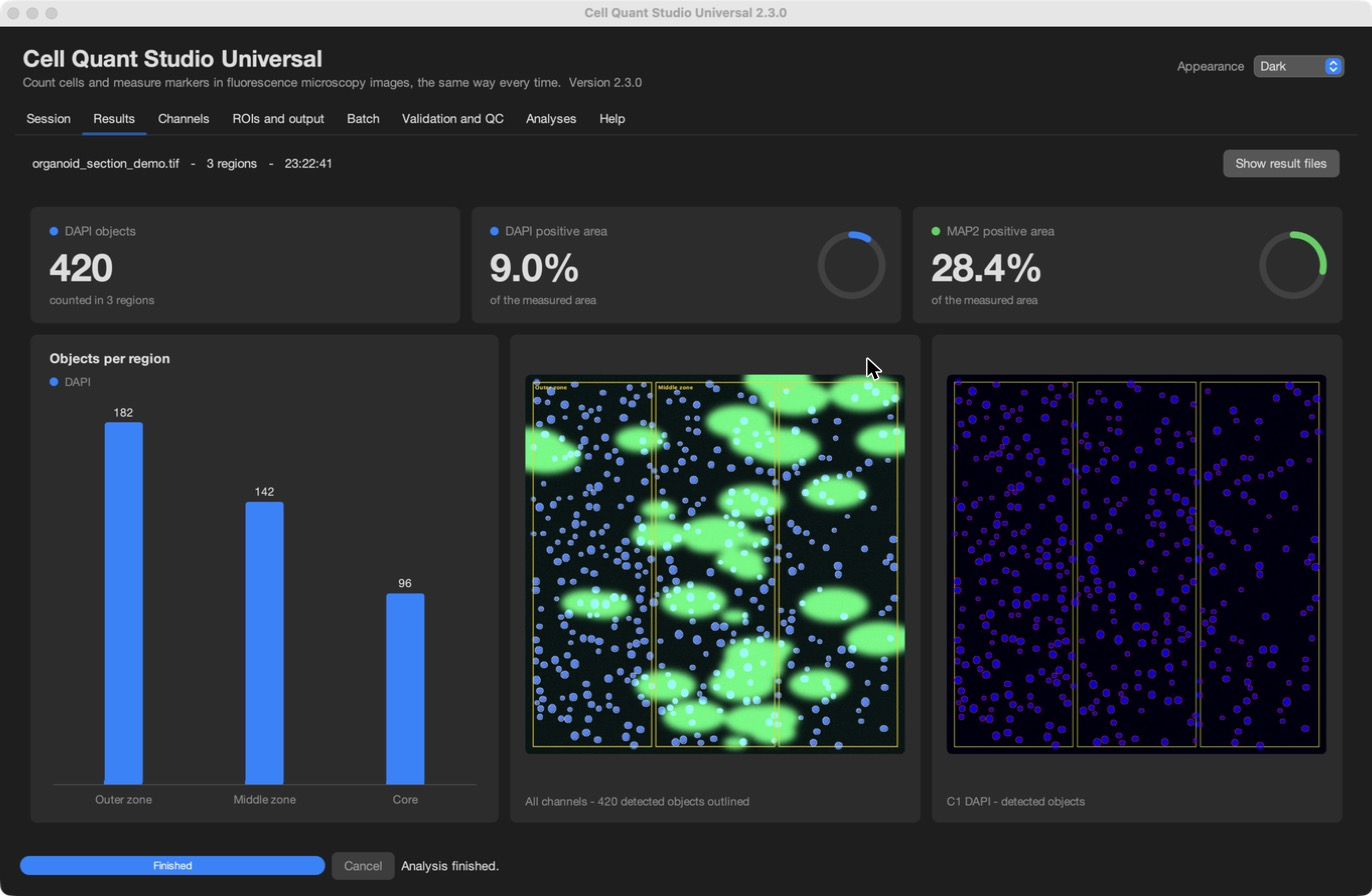
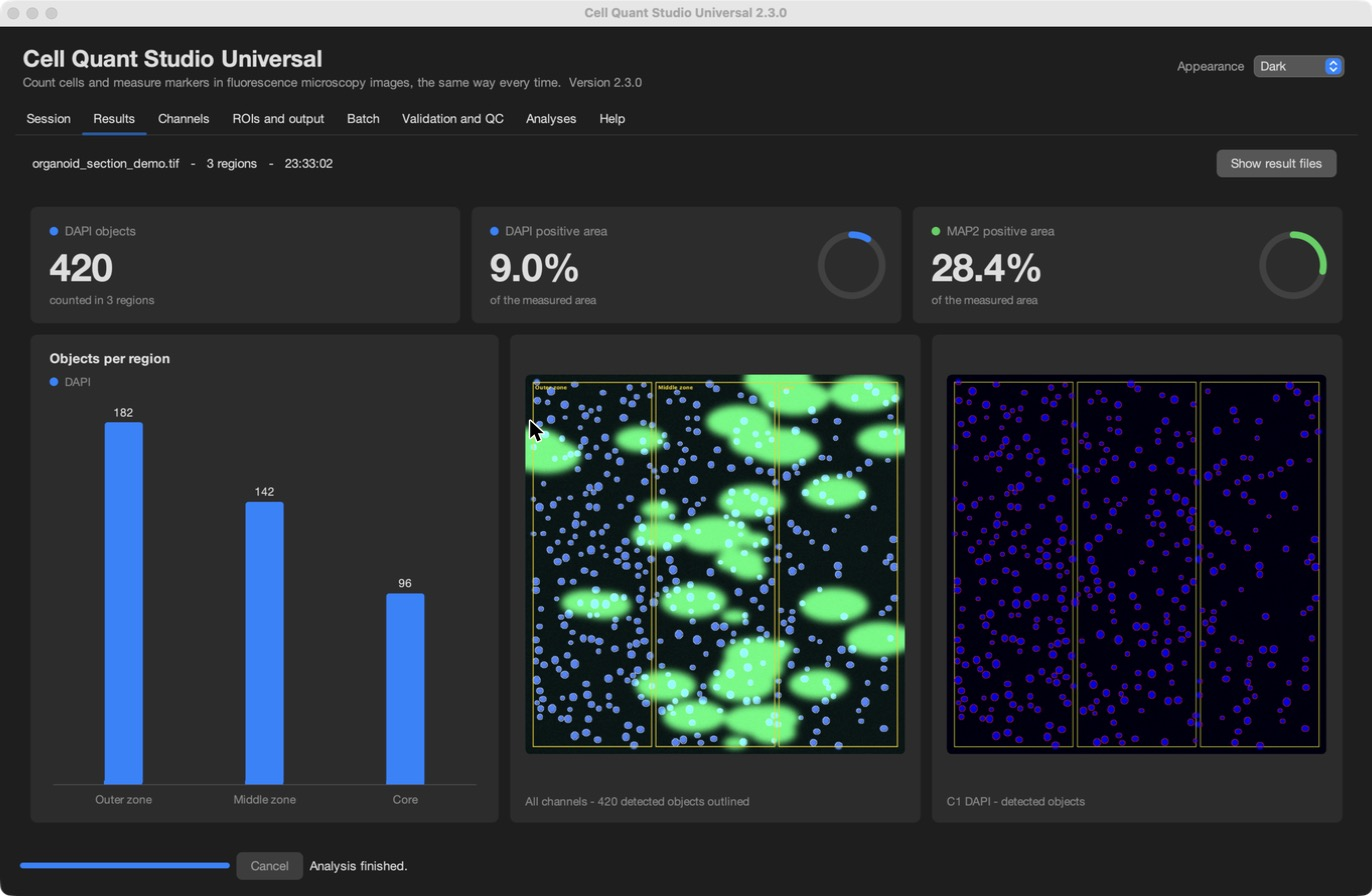
Give every tab one consistent layout
The tabs were built row by row with their own grids, so label columns
did not line up, fields stretched across the whole window, buttons had
arbitrary widths, and the channel forms floated in the middle of their
area. One pass (tidy_tab) now shapes them all:

- one right-aligned label column per tab; long labels and hints wrap
- buttons behind fields share a width; button rows share a size
- content in a centered column of at most 1040 px (not Session/Results)
- forms in scroll areas start at the top
- group titles sit above a rounded outline with inner padding
- Session actions in two rows: image, then the steps of an analysis
- a thin progress bar in the job bar; the state text stays beside it
- the smallest window keeps the run log; the drop zone never shows a
  cut-off part

No button text, setting or behaviour changed. Checked by rendering all
eight tabs at 1440x900 and 1120x760.

Tested on macOS: tests/gui_smoke.py 30 steps pass; tests/run_tests.py
125 tests pass.

diff --git a/cellquantcore.py b/cellquantcore.py
@@ -35,6 +35,10 @@ from javax.swing import (
     JProgressBar, BoxLayout, BorderFactory, SwingUtilities, UIManager, Box
 )
 from javax.swing import Timer as SwingTimer
+from javax.swing import JViewport, SwingConstants
+from javax.swing.plaf.basic import BasicHTML
+from javax.swing.text import View
+from java.awt import LayoutManager
 from java.awt import (
     BorderLayout, GridBagLayout, GridBagConstraints, Insets, Dimension, Font,
     Color, FlowLayout, Cursor, Window, RenderingHints, GradientPaint, BasicStroke
@@ -50,6 +54,7 @@ from java.io import File
 from java.lang import Runnable
 
 import os
+import math
 import time
 import traceback
 import threading
@@ -538,10 +543,11 @@ LOOK_EXTRAS = [
     ("TabbedPane.tabHeight", "34"),
     ("TabbedPane.showTabSeparators", "false"),
     ("SplitPane.dividerSize", "10"),
-    ("TitledBorder.titleColor", "#8e8e93")
+    ("TitledBorder.titleColor", "#8e8e93"),
+    ("TitledBorder.position", "ABOVE_TOP")
 ]
 # The outline of a titled group: one hairline with round corners.
-LOOK_GROUP_BORDER = {LOOK_DARK: "1,1,1,1,#3a3a3c,1,12", LOOK_LIGHT: "1,1,1,1,#d1d1d6,1,12"}
+LOOK_GROUP_BORDER = {LOOK_DARK: "8,10,10,10,#3a3a3c,1,12", LOOK_LIGHT: "8,10,10,10,#d1d1d6,1,12"}
 CHANNEL_SWATCHES = {
     "Blue": Color(10, 132, 255), "Green": Color(48, 209, 88), "Red": Color(255, 69, 58),
     "Magenta": Color(191, 90, 242), "Cyan": Color(100, 210, 255), "Yellow": Color(255, 214, 10)
@@ -656,10 +662,10 @@ def style_button(button, kind="plain"):
             button.putClientProperty(
                 "FlatLaf.style",
                 "background: #0a84ff; hoverBackground: #2b95ff; pressedBackground: #0071e3; "
-                "foreground: #ffffff; borderWidth: 0; font: bold; margin: 5,18,5,18"
+                "foreground: #ffffff; borderWidth: 0; margin: 5,14,5,14"
             )
         else:
-            button.putClientProperty("FlatLaf.style", "margin: 5,12,5,12")
+            button.putClientProperty("FlatLaf.style", "margin: 5,14,5,14")
     except ANY_ERROR:
         pass
     return button
@@ -1059,8 +1065,19 @@ class DropZonePanel(JPanel):
         graphics.draw(RoundRectangle2D.Float(4.0, 8.0, width - 12.0, height - 12.0, CARD_ARC, CARD_ARC))
         graphics.clipRect(14, 14, max(0, width - 32), max(0, height - 24))
         center = width // 2
-        block = 150 + 24 * len(self.STEPS)
-        top = max(24, (height - block) // 2)
+        base = self.getFont()
+        if height < 170:
+            # A low zone: the headline alone, in the middle. Never a cut-off part.
+            graphics.setFont(base.deriveFont(Font.BOLD, 15.0))
+            graphics.setColor(text)
+            headline = "Drop a microscopy image here"
+            shown_width = min(graphics.getFontMetrics().stringWidth(headline), width - 40)
+            paint_fitted(graphics, headline, center - shown_width // 2, height // 2 + 6, width - 40)
+            return
+        block = 136 + 22 * len(self.STEPS)
+        if height < block + 44:
+            block = 110
+        top = max(22, (height - block) // 2)
         # An arrow into a tray.
         graphics.setStroke(BasicStroke(2.5, BasicStroke.CAP_ROUND, BasicStroke.JOIN_ROUND))
         graphics.setColor(LOOK_ACCENT)
@@ -1086,8 +1103,9 @@ class DropZonePanel(JPanel):
         widest = min(widest, width - 80)
         left = center - (widest + 30) // 2
         for index in range(len(self.STEPS)):
-            line = top + 146 + 24 * index
-            if line > height - 20:
+            line = top + 144 + 22 * index
+            if top + 144 + 22 * (len(self.STEPS) - 1) > height - 22:
+                # Not room for the whole list: none of it, never a part.
                 break
             graphics.setColor(look_mix(back, text, 0.12))
             graphics.fillOval(left, line - 14, 20, 20)
@@ -1333,6 +1351,166 @@ class LookWindowListener(WindowAdapter):
 
 
 # -----------------------------------------------------------------------------
+# One layout for every tab
+# -----------------------------------------------------------------------------
+#
+# The tabs are built row by row with their own grids. tidy_tab() then gives
+# all of them the same shape: the content sits in one centered column of a
+# fixed largest width, every label column of a tab has one width with its
+# labels right-aligned (long labels wrap), buttons in a row have one size,
+# and a form in a scrolling area starts at the top.
+
+CONTENT_WIDTH = 1040
+FORM_LABEL_CAP = 240
+FORM_HINT_CAP = 250
+BUTTON_ROW_LIMIT = 980
+
+
+class ColumnLayout(LayoutManager):
+    """Gives the one child the full height and at most `limit` pixels of
+    width, centered."""
+
+    def __init__(self, limit):
+        self.limit = limit
+
+    def addLayoutComponent(self, name, component):
+        pass
+
+    def removeLayoutComponent(self, component):
+        pass
+
+    def preferredLayoutSize(self, parent):
+        if parent.getComponentCount() == 0:
+            return Dimension(0, 0)
+        wanted = parent.getComponent(0).getPreferredSize()
+        return Dimension(min(wanted.width, self.limit), wanted.height)
+
+    def minimumLayoutSize(self, parent):
+        if parent.getComponentCount() == 0:
+            return Dimension(0, 0)
+        wanted = parent.getComponent(0).getMinimumSize()
+        return Dimension(min(wanted.width, self.limit), wanted.height)
+
+    def layoutContainer(self, parent):
+        if parent.getComponentCount() == 0:
+            return
+        width = min(parent.getWidth(), self.limit)
+        parent.getComponent(0).setBounds((parent.getWidth() - width) // 2, 0, width, parent.getHeight())
+
+
+def in_column(component):
+    """The component in a centered column of at most CONTENT_WIDTH pixels."""
+    holder = JPanel(ColumnLayout(CONTENT_WIDTH))
+    holder.add(component)
+    return holder
+
+
+def html_text(text):
+    text = to_text(text)
+    for pair in [("&", "&amp;"), ("<", "&lt;"), (">", "&gt;")]:
+        text = text.replace(pair[0], pair[1])
+    return text
+
+
+def tidy_collect(container, grids, rows, notes):
+    for child in container.getComponents():
+        if isinstance(child, JPanel):
+            layout = child.getLayout()
+            if isinstance(layout, GridBagLayout):
+                grids.append(child)
+            elif isinstance(layout, FlowLayout):
+                rows.append(child)
+        elif isinstance(child, JTextArea) and not child.isEditable() and not child.isOpaque():
+            notes.append(child)
+        if hasattr(child, "getComponents"):
+            tidy_collect(child, grids, rows, notes)
+
+
+def tidy_tab(tab):
+    """Give the forms and button rows of one tab one consistent shape."""
+    grids = []
+    rows = []
+    notes = []
+    tidy_collect(tab, grids, rows, notes)
+
+    # Label columns: one width for the whole tab, right-aligned.
+    labels = []
+    widest = 0
+    for panel in grids:
+        layout = panel.getLayout()
+        for child in panel.getComponents():
+            constraints = layout.getConstraints(child)
+            if isinstance(child, JLabel) and constraints.gridx == 0 and constraints.gridwidth == 1:
+                labels.append((layout, child, constraints))
+                widest = max(widest, child.getPreferredSize().width)
+            elif isinstance(child, JLabel) and constraints.gridx >= 2:
+                # A hint behind a field: secondary text, wrapped when long so
+                # that it never forces the form wider than its column.
+                child.putClientProperty("FlatLaf.style", "foreground: $Label.disabledForeground")
+                hint_size = child.getPreferredSize()
+                if hint_size.width > FORM_HINT_CAP:
+                    child.setText("<html>" + html_text(child.getText()) + "</html>")
+                    hint_view = child.getClientProperty(BasicHTML.propertyKey)
+                    if hint_view is not None:
+                        hint_view.setSize(float(FORM_HINT_CAP), 0.0)
+                        child.setPreferredSize(Dimension(
+                            FORM_HINT_CAP, int(math.ceil(hint_view.getPreferredSpan(View.Y_AXIS)))
+                        ))
+            elif isinstance(child, JButton) and constraints.gridx >= 2:
+                # Buttons behind fields (Browse, Apply preset): one width per form.
+                constraints.fill = GridBagConstraints.HORIZONTAL
+                layout.setConstraints(child, constraints)
+    width = min(widest, FORM_LABEL_CAP)
+    for entry in labels:
+        layout, label, constraints = entry
+        wanted = label.getPreferredSize()
+        height = wanted.height
+        if wanted.width > width:
+            # Too long for the column: wrap it instead of widening the column.
+            label.setText("<html><div style='text-align: right'>" + html_text(label.getText()) + "</div></html>")
+            view = label.getClientProperty(BasicHTML.propertyKey)
+            if view is not None:
+                view.setSize(float(width), 0.0)
+                height = int(math.ceil(view.getPreferredSpan(View.Y_AXIS)))
+        label.setPreferredSize(Dimension(width, height))
+        label.setMinimumSize(Dimension(width, height))
+        label.setHorizontalAlignment(SwingConstants.RIGHT)
+        constraints.anchor = GridBagConstraints.EAST
+        constraints.fill = GridBagConstraints.NONE
+        constraints.insets = Insets(5, 8, 5, 4)
+        layout.setConstraints(label, constraints)
+
+    # A form inside a scrolling area starts at the top instead of floating
+    # in the middle of the free space.
+    for panel in grids:
+        if isinstance(panel.getParent(), JViewport):
+            filler = GridBagConstraints()
+            filler.gridx = 0
+            filler.gridy = 1000
+            filler.weighty = 1.0
+            filler.fill = GridBagConstraints.VERTICAL
+            panel.add(Box.createVerticalGlue(), filler)
+
+    # Button rows: every button of a row has the size of the largest one,
+    # unless the row would then no longer fit.
+    for panel in rows:
+        buttons = [child for child in panel.getComponents() if isinstance(child, JButton)]
+        if len(buttons) == 0:
+            continue
+        layout = panel.getLayout()
+        layout.setHgap(8)
+        high = max([button.getPreferredSize().height for button in buttons])
+        wide = max([button.getPreferredSize().width for button in buttons])
+        even = len(buttons) >= 2 and (wide + 8) * len(buttons) <= BUTTON_ROW_LIMIT
+        for button in buttons:
+            button.setPreferredSize(Dimension(wide if even else button.getPreferredSize().width, high))
+
+    # Explanations: secondary text.
+    for note in notes:
+        note.putClientProperty("FlatLaf.style", "foreground: $Label.disabledForeground")
+
+
+# -----------------------------------------------------------------------------
 # Main application
 # -----------------------------------------------------------------------------
 
@@ -1397,18 +1575,20 @@ class CellQuantStudioUniversal(JFrame):
         self.main_tabs = JTabbedPane()
         self.main_tabs.add("Session", self.build_session_tab())
         self.main_tabs.add(RESULTS_TAB_TITLE, self.build_results_tab())
-        self.main_tabs.add("Channels", self.build_channels_tab())
-        self.main_tabs.add("ROIs and output", self.build_roi_output_tab())
-        self.main_tabs.add("Batch", self.build_batch_tab())
-        self.main_tabs.add("Validation and QC", self.build_validation_tab())
+        self.main_tabs.add("Channels", in_column(self.build_channels_tab()))
+        self.main_tabs.add("ROIs and output", in_column(self.build_roi_output_tab()))
+        self.main_tabs.add("Batch", in_column(self.build_batch_tab()))
+        self.main_tabs.add("Validation and QC", in_column(self.build_validation_tab()))
         if len(SETTINGS_FORMS) > 0:
-            self.main_tabs.add("Analyses", self.build_analyses_tab())
-        self.main_tabs.add("Help", self.build_help_tab())
+            self.main_tabs.add("Analyses", in_column(self.build_analyses_tab()))
+        self.main_tabs.add("Help", in_column(self.build_help_tab()))
         root.add(self.main_tabs, BorderLayout.CENTER)
         root.add(self.build_job_bar(), BorderLayout.SOUTH)
 
         self.getContentPane().add(root)
         self.style_buttons(root)
+        for tab_index in range(self.main_tabs.getTabCount()):
+            tidy_tab(self.main_tabs.getComponentAt(tab_index))
 
     def build_header(self):
         """The title row: name, one line on what the tool does, and the look."""
@@ -1510,9 +1690,11 @@ class CellQuantStudioUniversal(JFrame):
         bar = JPanel(FlowLayout(FlowLayout.LEFT))
         self.job_label = JLabel("No background job is running.")
         self.job_progress = JProgressBar(0, 100)
-        self.job_progress.setStringPainted(True)
+        # A thin bar; what it stands for is written beside it (job_label).
+        # The string is still set, for scripts and tests that read the state.
+        self.job_progress.setStringPainted(False)
         self.job_progress.setString("Idle")
-        self.job_progress.setPreferredSize(Dimension(320, 20))
+        self.job_progress.setPreferredSize(Dimension(220, 6))
         self.job_cancel_button = JButton("Cancel", actionPerformed=self.cancel_background_action)
         self.job_cancel_button.setEnabled(False)
         bar.add(self.job_progress)
@@ -1567,20 +1749,26 @@ class CellQuantStudioUniversal(JFrame):
         )
         self.add_grid_row(inputs, 3, "Frames", self.frame_mode_combo)
 
-        actions = JPanel(FlowLayout(FlowLayout.LEFT))
+        # Two rows: getting an image, then the three steps of an analysis.
+        image_row = JPanel(FlowLayout(FlowLayout.LEFT, 8, 4))
+        image_row.add(JButton("Open selected image", actionPerformed=self.open_selected_image))
+        image_row.add(JButton("Open via Bio-Formats", actionPerformed=self.open_selected_with_bioformats))
+        image_row.add(JButton("Use active image", actionPerformed=self.use_active_image))
+        image_row.add(JButton("Reset for next image", actionPerformed=self.reset_for_next_image))
+        steps_row = JPanel(FlowLayout(FlowLayout.LEFT, 8, 4))
+        steps_row.add(style_button(JButton("1. Prepare enabled channels", actionPerformed=self.prepare_enabled_channels)))
+        steps_row.add(style_button(JButton("2. Preview all masks", actionPerformed=self.preview_all_masks)))
+        steps_row.add(style_button(JButton("3. Run analysis", actionPerformed=self.run_analysis_action), "primary"))
+        steps_row.add(JButton("Quick run", actionPerformed=self.quick_run_action))
+        actions = JPanel()
+        actions.setLayout(BoxLayout(actions, BoxLayout.Y_AXIS))
         actions.setBorder(BorderFactory.createTitledBorder("Workflow actions"))
-        actions.add(JButton("Open selected image", actionPerformed=self.open_selected_image))
-        actions.add(JButton("Open via Bio-Formats", actionPerformed=self.open_selected_with_bioformats))
-        actions.add(JButton("Use active image", actionPerformed=self.use_active_image))
-        actions.add(style_button(JButton("1. Prepare enabled channels", actionPerformed=self.prepare_enabled_channels)))
-        actions.add(style_button(JButton("2. Preview all masks", actionPerformed=self.preview_all_masks)))
-        actions.add(style_button(JButton("3. Run analysis", actionPerformed=self.run_analysis_action), "primary"))
-        actions.add(JButton("Quick run", actionPerformed=self.quick_run_action))
-        actions.add(JButton("Reset for next image", actionPerformed=self.reset_for_next_image))
+        actions.add(image_row)
+        actions.add(steps_row)
 
         self.drop_area = DropZonePanel()
-        self.drop_area.setPreferredSize(Dimension(520, 260))
-        self.drop_area.setMinimumSize(Dimension(380, 200))
+        self.drop_area.setPreferredSize(Dimension(520, 230))
+        self.drop_area.setMinimumSize(Dimension(320, 120))
         self.drop_area.setToolTipText(
             "Recommended manual-threshold workflow: open an image and apply a preset; prepare the enabled channels; "
             "use each channel's Brightness/Contrast button; preview masks and adjust thresholds/morphology; "
@@ -1618,8 +1806,14 @@ class CellQuantStudioUniversal(JFrame):
         top.add(inputs, BorderLayout.NORTH)
         top.add(actions, BorderLayout.SOUTH)
 
-        split = JSplitPane(JSplitPane.VERTICAL_SPLIT, center, JScrollPane(self.status_area))
-        split.setResizeWeight(0.57)
+        # The log keeps a few lines even in the smallest window.
+        status_scroll = JScrollPane(self.status_area)
+        status_scroll.setMinimumSize(Dimension(200, 96))
+        status_scroll.setPreferredSize(Dimension(600, 150))
+        source_panel.setMinimumSize(Dimension(320, 120))
+        center.setMinimumSize(Dimension(400, 130))
+        split = JSplitPane(JSplitPane.VERTICAL_SPLIT, center, status_scroll)
+        split.setResizeWeight(0.7)
 
         panel.add(top, BorderLayout.NORTH)
         panel.add(split, BorderLayout.CENTER)
@@ -1778,7 +1972,7 @@ class CellQuantStudioUniversal(JFrame):
         self.batch_progress = JProgressBar(0, 100)
         self.batch_progress.setStringPainted(True)
         self.batch_progress.setString("Idle")
-        self.batch_progress.setPreferredSize(Dimension(420, 22))
+        self.batch_progress.setPreferredSize(Dimension(300, 18))
         actions.add(self.batch_scan_button)
         actions.add(self.batch_run_button)
         actions.add(self.batch_cancel_button)

diff --git a/CHANGELOG.md b/CHANGELOG.md
@@ -31,6 +31,7 @@ Read this section before comparing new numbers with old ones.
 
 - **Results tab.** After an analysis the window shows headline numbers (object counts, positive-area share), a chart of the object counts per parent ROI, a merged color picture of all channels with the parent ROIs and detected objects outlined, and the object overlay image. It reads the summary table and the saved files of the run; no table, file or number changes.
 - **A new appearance** in the macOS design language (FlatLaf's macOS theme, dark or light): neutral surfaces, one blue accent, one filled button for the main action, rounded group outlines, and text that is shortened instead of overlapping. It applies to all Fiji windows while Cell Quant Studio is open; the previous look is put back when the window closes. **Appearance > Fiji default** at the top right switches it off, and the choice is remembered. Without FlatLaf the window keeps Fiji's look.
+- **Consistent layout on every tab:** one aligned label column per tab, buttons of one size within a row and behind fields, content in a centered column instead of stretched across the window, group titles above their outline, and forms that start at the top of their area. The Session tab's actions are two rows: getting an image, then the steps of an analysis. No button text changed.
 - **Session tab:** a drop zone for the image file and a small picture of the source image. The workflow text of the old drop area is now its tooltip.
 - **Optional analysis modules**, each in its own file, with settings saved in profiles and a new **Analyses** tab. With a module off, every table is byte-for-byte unchanged (tested).
   - `cellquanttissue.py`: automatic tissue outline (Gaussian smoothing in micrometers, automatic threshold on a log scale, hole filling, region-size filter); window button and the batch region policy "Automatic tissue outline"; `tissue_outline.csv`, outline ROIs and a check image; `Tissue_Outlines/` in batches.

diff --git a/CLAUDE.md b/CLAUDE.md
@@ -88,6 +88,7 @@ All version constants and every module's registered version must match. The laun
 - **8-bit conversion before Local Phansalkar uses `convertToByte(True)` after `setMinAndMax`.** Local Phansalkar and CLAHE are called through their classes (pixel-identical to the menu commands), so they work without menus and without a display.
 - **`IJ.run` does not raise when a plugin fails.** Verify the effect.
 - **The appearance is a global Swing look.** `look_install(name)` switches Fiji to FlatLaf's macOS theme (Dark or Light) when the window opens and `look_restore()` hands back the previous look object when it closes (`LookWindowListener`). Keep the look object itself: under Jython `obj.getClass().getName()` raises. Styling uses FlatLaf client properties and UI defaults only, so other looks ignore it. Custom-painted text goes through `paint_fitted()`, which shortens it to its room: nothing may overlap. Tests press buttons by their text: keep button texts unique and unchanged.
+- **One layout pass shapes every tab.** `tidy_tab()` runs once after `build_ui`: one right-aligned label column per tab (long labels wrap), buttons behind fields of one width, button rows of one size, forms in scroll areas pinned to the top. Tabs other than Session and Results sit in a centered column (`in_column`). Build new rows with `add_form_row` / `add_grid_row` and plain `FlowLayout` button rows and they are shaped the same way; do not size widgets by hand.
 - **The Results tab only displays.** `results_from_summary()` reads the summary rows of the finished run; it must never measure or write anything, and a failure in `show_results()` must not fail the analysis.
 - **Window threading:**
   - Status messages before the window is displayable are appended directly; afterwards through `run_on_ui`.
